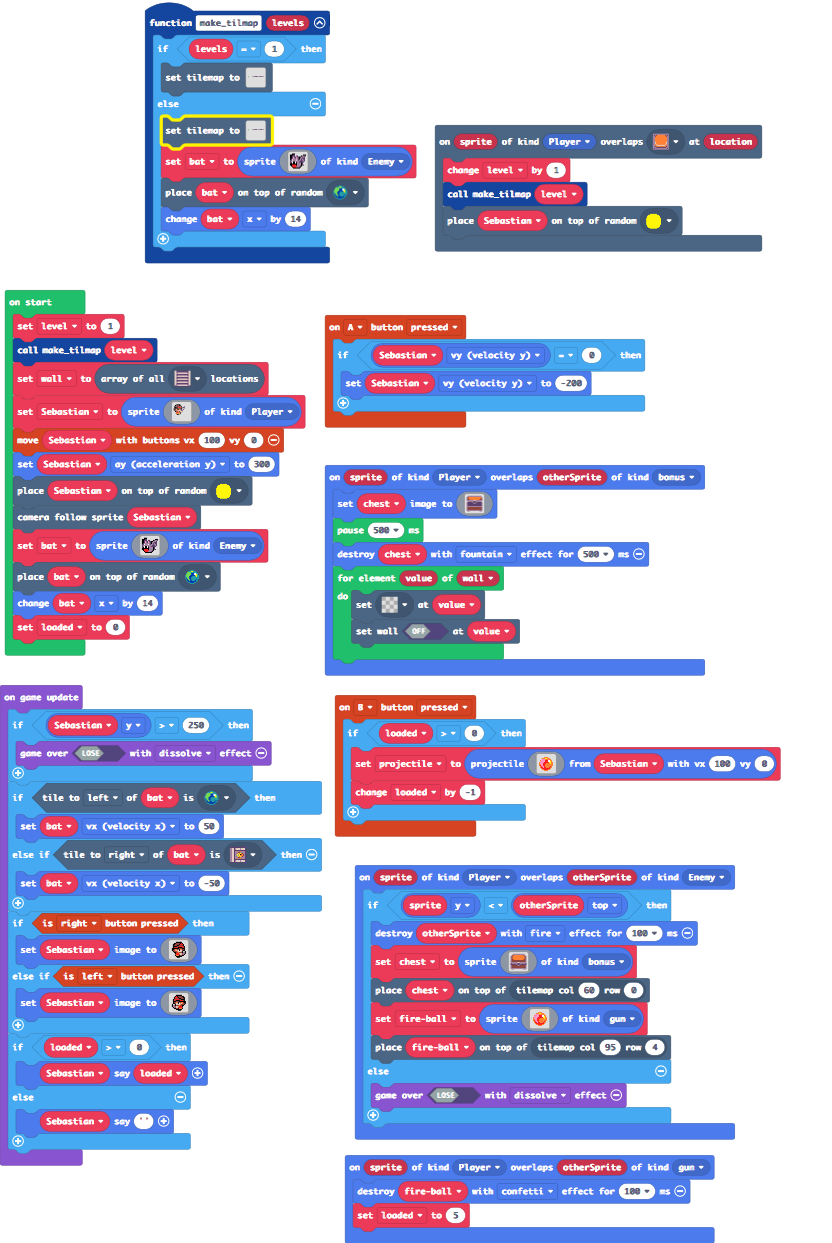
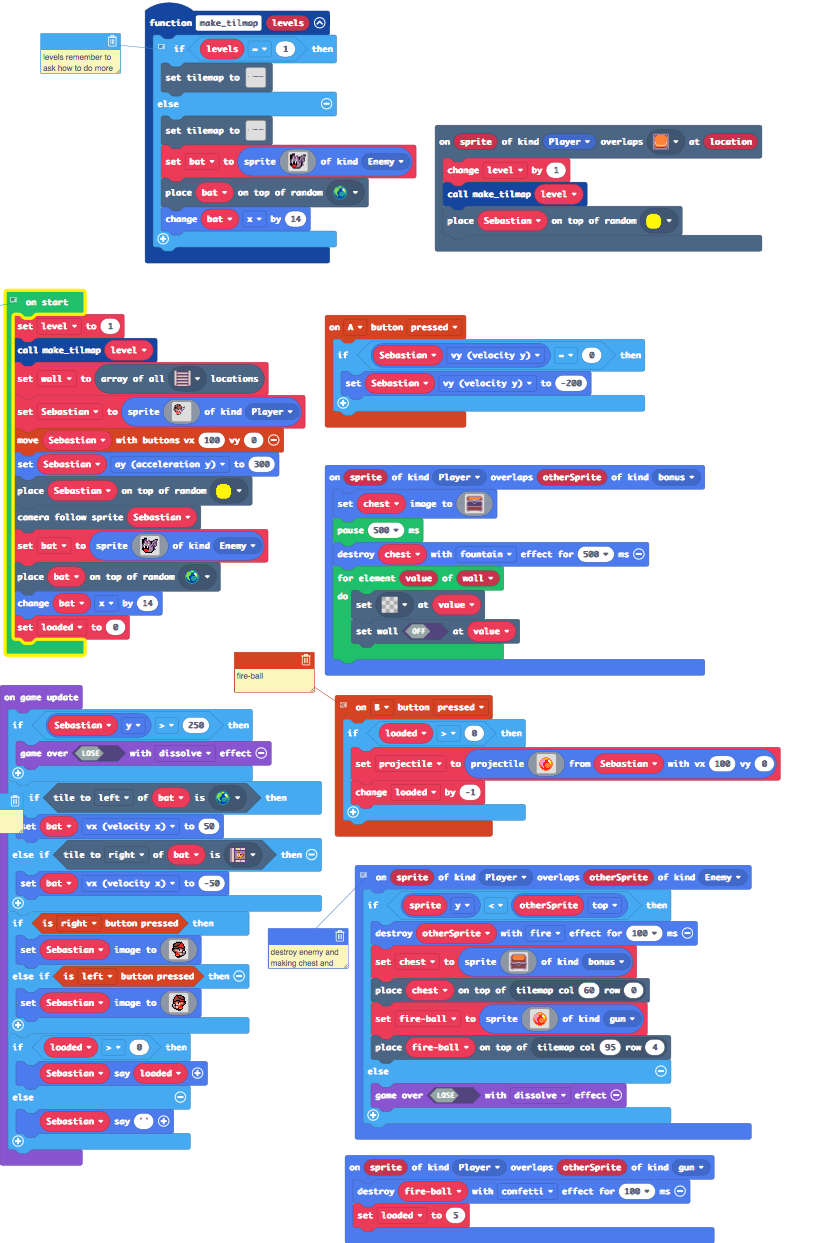
Update main.blocks, main.ts

diff --git a/main.ts b/main.ts
@@ -2,6 +2,7 @@ namespace SpriteKind {
     export const bonus = SpriteKind.create()
     export const gun = SpriteKind.create()
 }
+// fire-ball
 controller.B.onEvent(ControllerButtonEvent.Pressed, function () {
     if (loaded > 0) {
         projectile = sprites.createProjectileFromSprite(img`
@@ -30,6 +31,7 @@ sprites.onOverlap(SpriteKind.Player, SpriteKind.gun, function (sprite, otherSpri
     loaded = 5
 })
 function make_tilmap (levels: number) {
+    // levels remember to ask how to do more levels
     if (levels == 1) {
[1 lines of base64/hex data omitted]
             ......................................................................................2.................................................................................................................
@@ -154,6 +156,7 @@ scene.onOverlapTile(SpriteKind.Player, sprites.dungeon.buttonOrange, function (s
     make_tilmap(level)
     tiles.placeOnRandomTile(Sebastian, myTiles.tile1)
 })
+// destroy enemy and making chest and fire-ball
 sprites.onOverlap(SpriteKind.Player, SpriteKind.Enemy, function (sprite, otherSprite) {
     if (sprite.y < otherSprite.top) {
         otherSprite.destroy(effects.fire, 100)
@@ -199,6 +202,7 @@ sprites.onOverlap(SpriteKind.Player, SpriteKind.Enemy, function (sprite, otherSp
         game.over(false, effects.dissolve)
     }
 })
+// starting the game
 let chest: Sprite = null
 let fireball: Sprite = null
 let projectile: Sprite = null
@@ -265,6 +269,8 @@ game.onUpdate(function () {
     if (Sebastian.y > 250) {
         game.over(false, effects.dissolve)
     }
+    // enemy
+    // 
     if (bat.tileKindAt(TileDirection.Left, sprites.dungeon.collectibleBlueCrystal)) {
         bat.vx = 50
     } else if (bat.tileKindAt(TileDirection.Right, sprites.dungeon.doorLockedWest)) {
